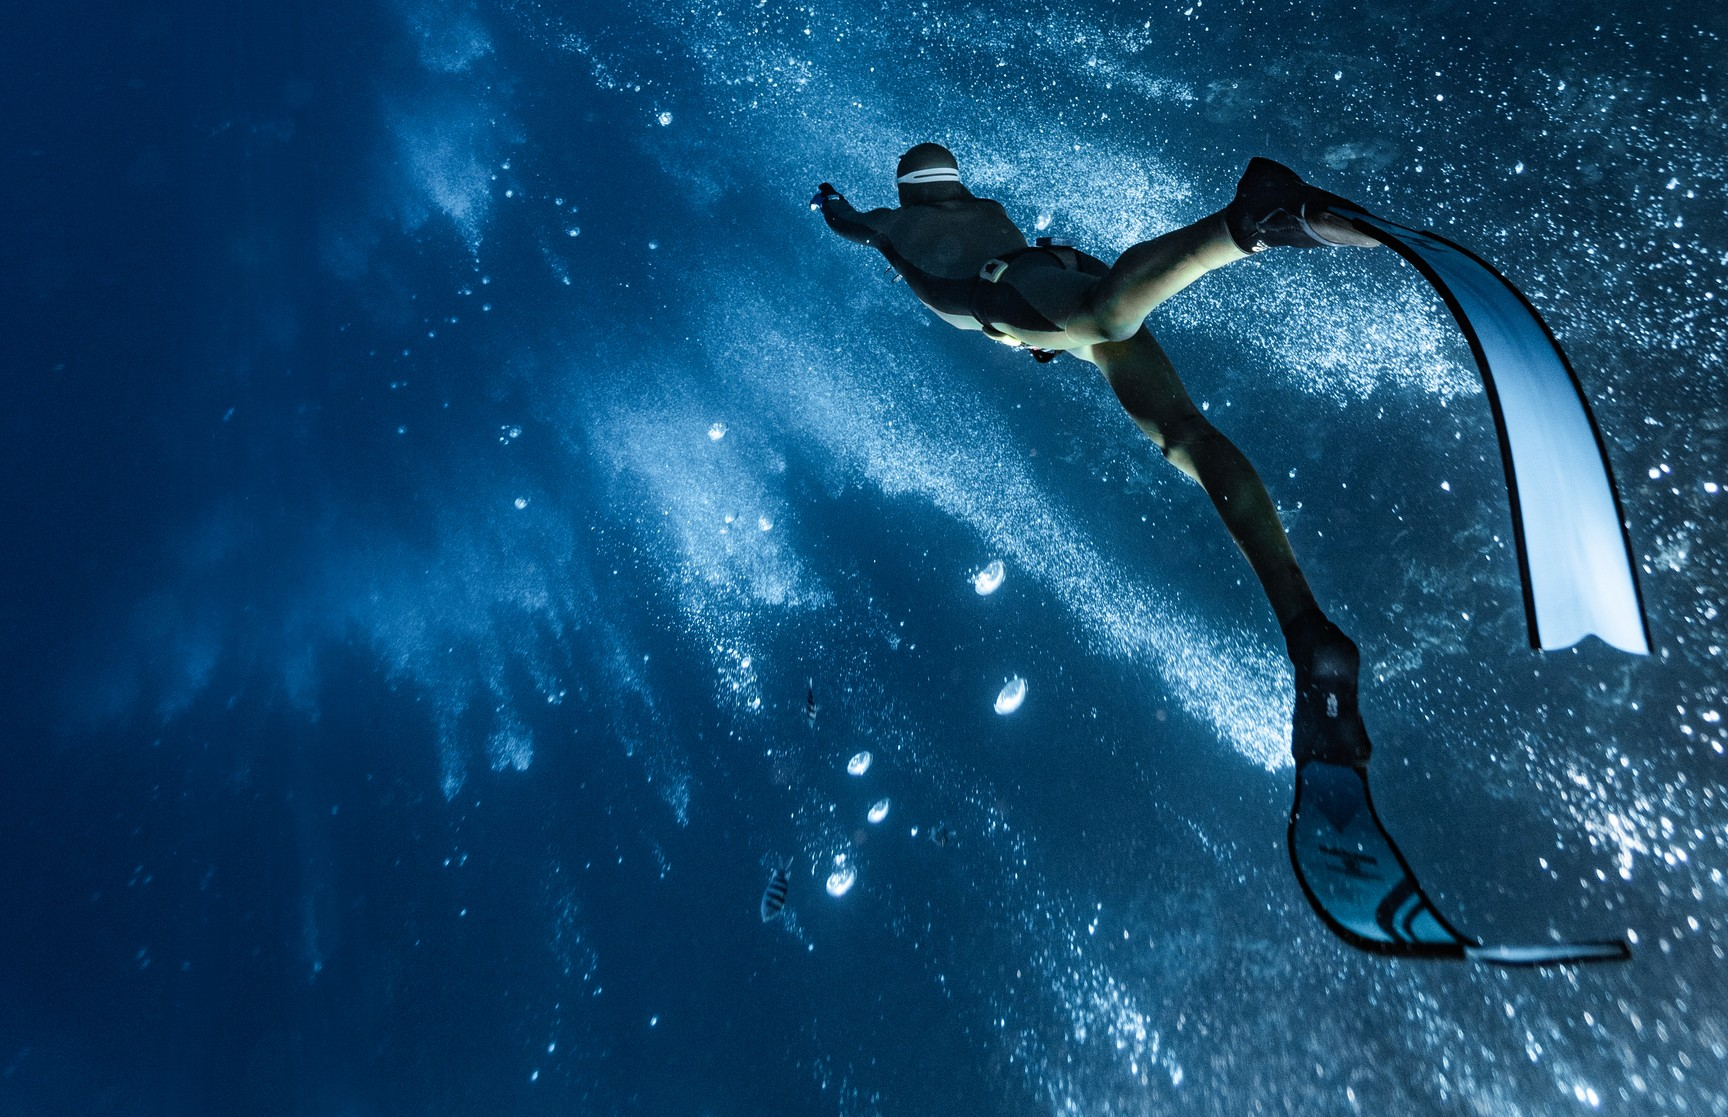
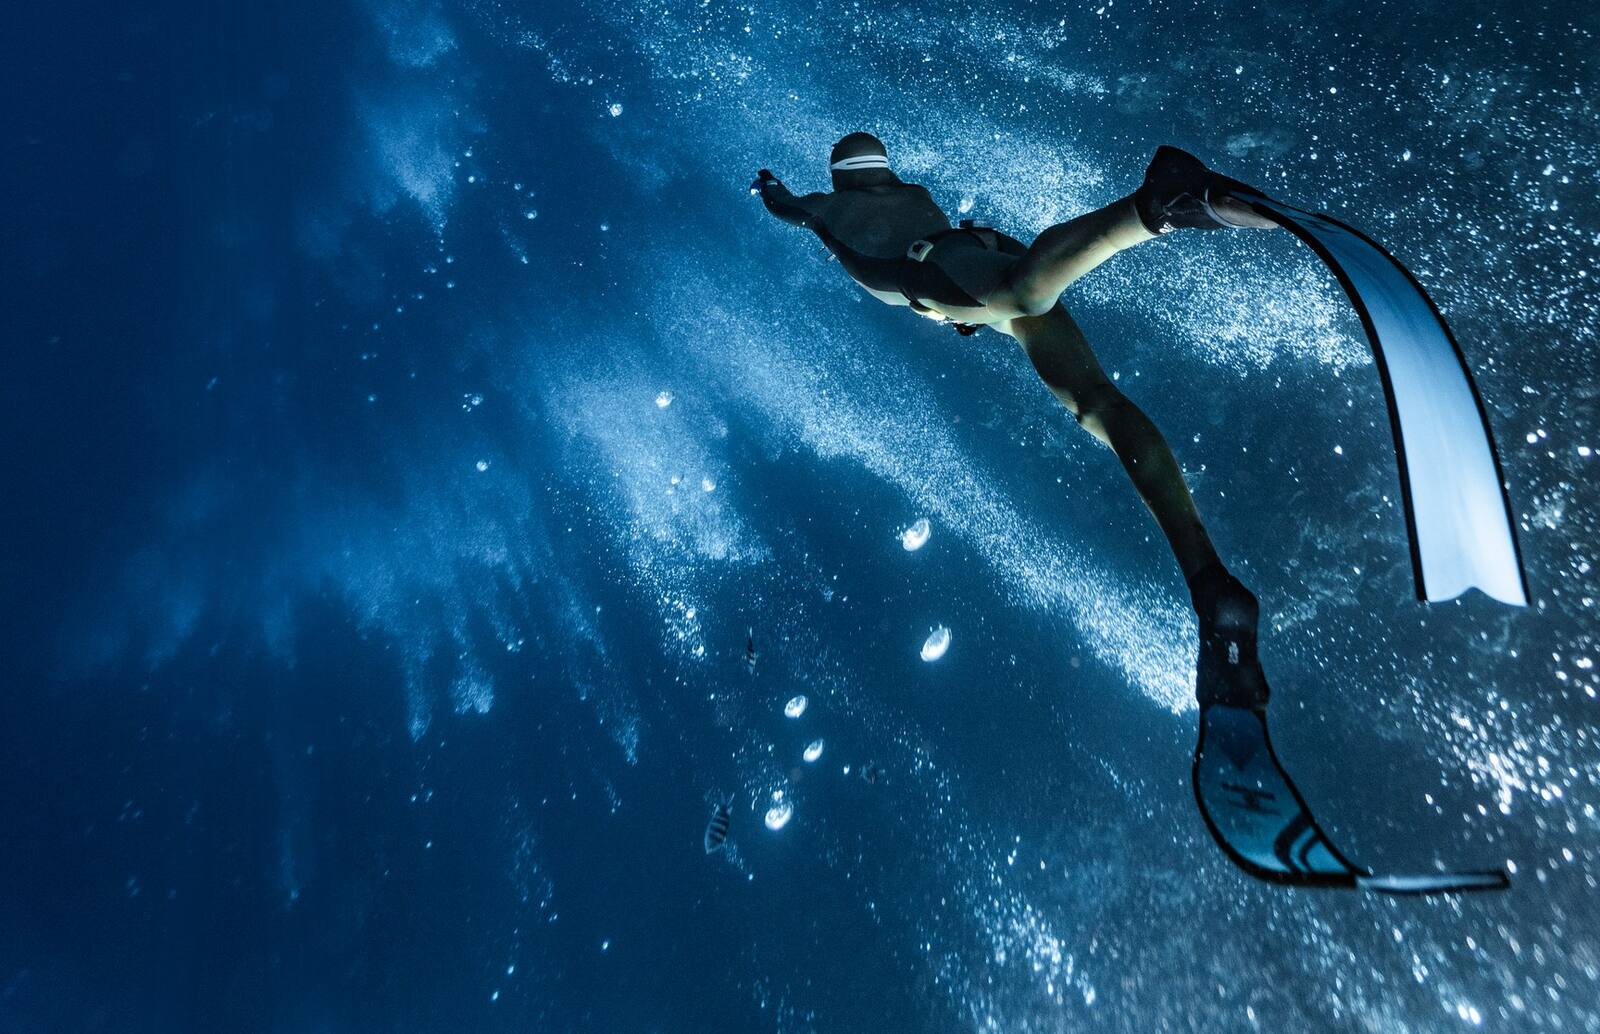
Fix nav z-index stacking, compress hero images

Changed region(s): [[0.6875, 0.2476, 0.8125, 0.3404], [0.6562, 0.1547, 0.6875, 0.1857]]

diff --git a/components/Navigation.tsx b/components/Navigation.tsx
@@ -166,7 +166,12 @@ export default function Navigation({
         scrolled || open ? "bg-white shadow-sm" : "bg-white/80 shadow-none backdrop-blur-md"
       }`}
     >
-      <div className="relative flex items-center gap-8 px-6 py-4 md:gap-12 md:px-16">
+      {/* z-50 here matters: the mobile backdrop below is z-40, and without
+          an explicit z-index this row defaults to stacking level 0 - which
+          put the backdrop's dark blur ON TOP of the logo and close button
+          instead of behind them, which is what actually made them look
+          blurred/faded (not the header's own backdrop-blur). */}
+      <div className="relative z-50 flex items-center gap-8 px-6 py-4 md:gap-12 md:px-16">
         <Link
           href="/"
           className="absolute left-1/2 top-1/2 shrink-0 -translate-x-1/2 -translate-y-1/2 md:static md:left-auto md:top-auto md:translate-x-0 md:translate-y-0"
